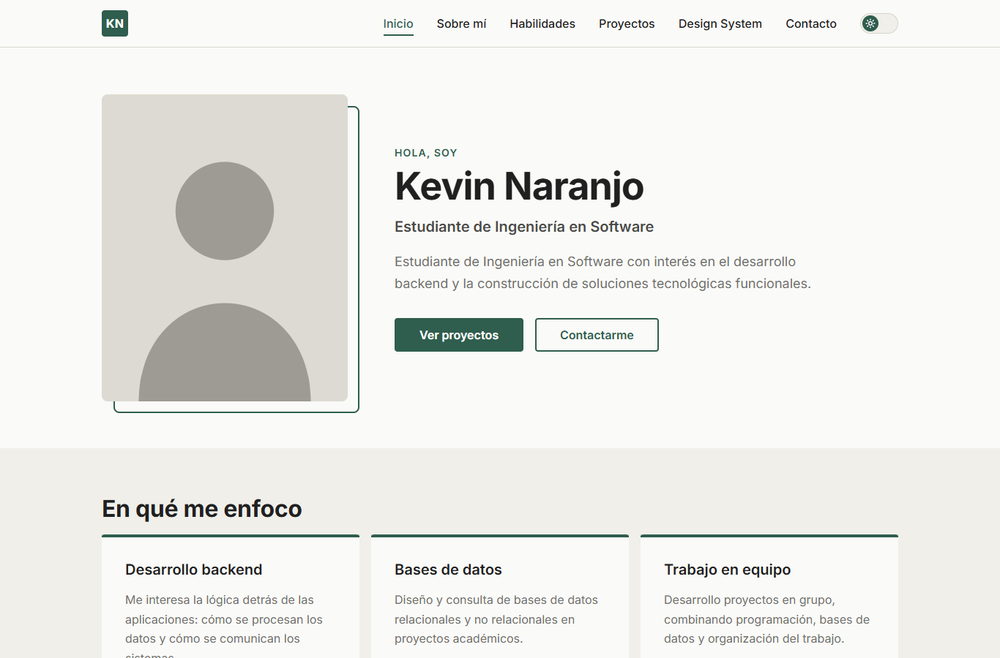
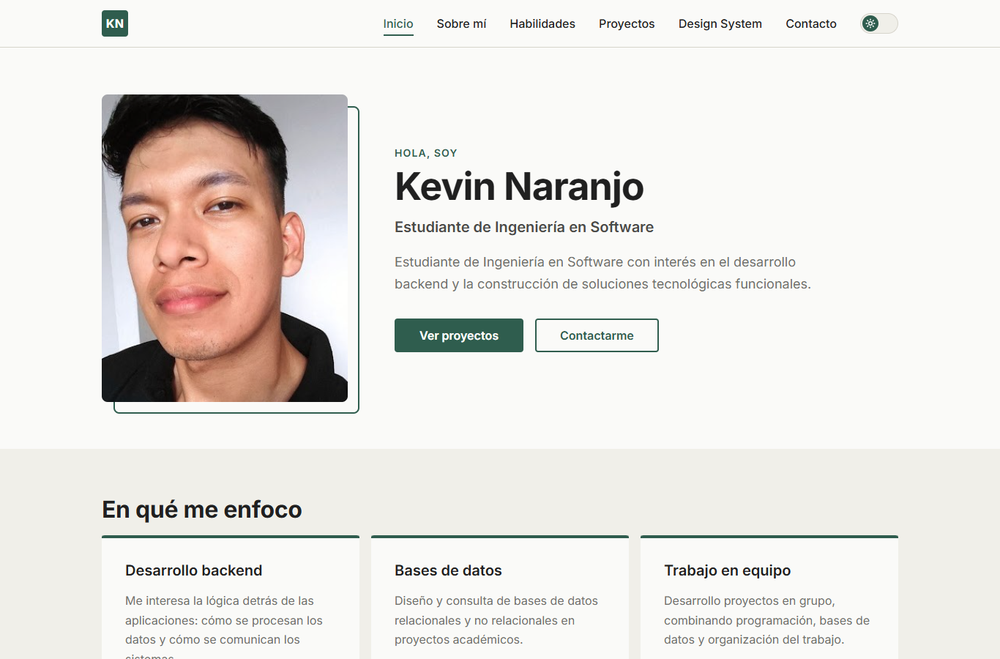
Agregar foto de perfil
Foto real recortada a formato 4:5 en la seccion de inicio, sin la imagen
provisional. Captura del README actualizada.

diff --git a/index.html b/index.html
@@ -54,7 +54,7 @@
   <main id="contenido">
     <section class="hero container" aria-labelledby="hero-titulo">
       <figure class="hero__photo">
-        <img src="img/perfil.svg" alt="Fotografía de perfil de Kevin Naranjo" width="400" height="500">
+        <img src="img/perfil.jpg" alt="Fotografía de perfil de Kevin Naranjo, sonriendo, con camisa polo negra" width="319" height="399">
         <figcaption class="visually-hidden">Kevin Naranjo, estudiante de Ingeniería en Software en la UNEMI</figcaption>
       </figure>
       <div class="hero__content">
